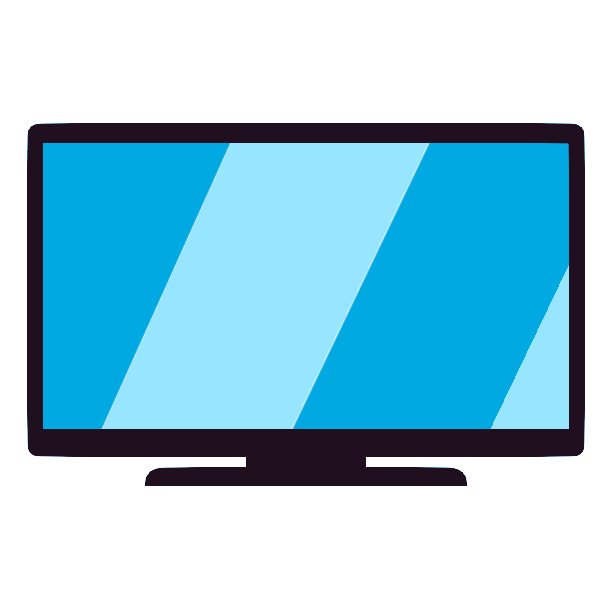
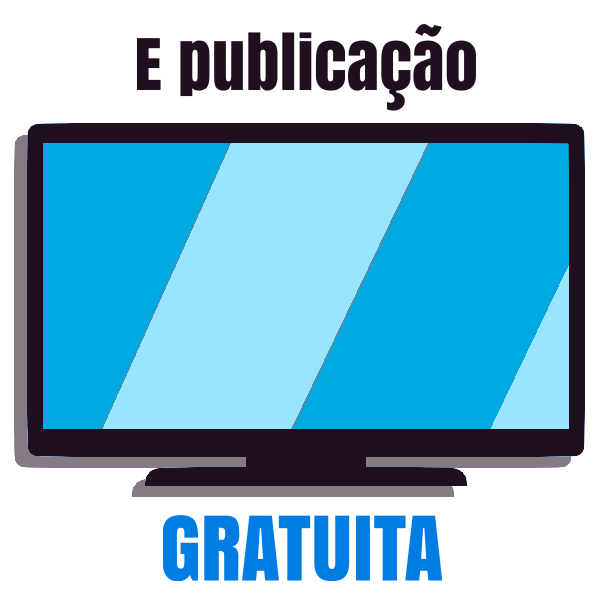
Atualização

diff --git a/css/style.css b/css/style.css
@@ -71,7 +71,7 @@ main {
     grid-template-rows: 1fr 1fr;
     padding: 30px;
     gap: 0 1.5rem;
-    margin: 128px 64px 64px 64px;
+    margin: 128px 64px -64px 64px;
     overflow: hidden;
     box-shadow: 
         30px -30px 0 0 #01a9e2,
@@ -211,6 +211,30 @@ header {
     height: 600px;
 }
 
+#depoimentos {
+    flex: 1;
+    width: 1500px;
+    display: grid;
+    grid-template-columns: repeat(auto-fit, minmax(200px, 1fr));
+    grid-template-rows: 1fr;
+    gap: 0 1.5rem;
+    margin: 128px 64px 64px 64px;
+    overflow: hidden;
+    grid-template-areas: 
+        "dep1 dep2 dep3";
+}
+
+.depoimento {
+    width: 100%;
+    height: 450px;
+    margin: 8px 0;
+    background-color: #20101f;
+    transition: all 0.5s ease;
+}
+
+.depoimento:hover {
+    scale: 1.05;
+}
 
 footer {
     width: 100%;

diff --git a/index.html b/index.html
@@ -45,6 +45,11 @@
             <img src="images/tv.png" alt="">
         </div>
     </main>
+    <section id="depoimentos">
+        <div class="depoimento"></div>
+        <div class="depoimento"></div>
+        <div class="depoimento"></div>
+    </section>
     <footer class="footer-classic" role="contentinfo">
         <div class="footer-classic__container">
             <div class="footer-classic__main">